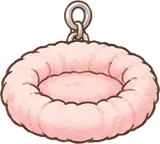
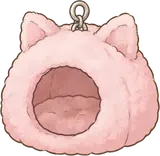
Kitten charm: replace cat bed image with cat-ear dome bed
Claude-Session: https://claude.ai/code/session_01LsuWBkhUDp3d2Zrt24Lv8i

diff --git a/js/series.js b/js/series.js
@@ -169,7 +169,7 @@ const SERIES_LIST = [
       { id: "n14", name: "立候補さん", w: 90, h: 160 },
       { id: "n15", name: "おすわり子猫", w: 98, h: 160, ring: 0.56 },
       { id: "n16", name: "ミルクの哺乳びん", w: 72, h: 160 },
-      { id: "n17", name: "ふかふかねこベッド", w: 160, h: 144 },
+      { id: "n17", name: "ふかふかねこベッド", w: 160, h: 156 },
       { id: "n18", name: "羽根つきねこじゃらし", w: 141, h: 160, ring: 0.55, tail: [0.55, 0.14] },
       { id: "n19", name: "カリカリごはん皿", w: 160, h: 142 },
       { id: "n20", name: "ピンクの毛糸玉", w: 124, h: 160, ring: 0.44, tail: [0.44, 0.82] },

diff --git a/js/app.js b/js/app.js
@@ -24,7 +24,7 @@ const KCAL_PER_FAT_G = 7.2;  // 体脂肪1gあたりのカロリー
 // 保存名はすべて「n-app-」で始める（同じサイト上のほかのアプリとまざらないように）
 const STORAGE_KEY = "n-app-data";
 const LEGACY_STORAGE_KEY = "n-undou-bin.v1"; // 前の保存名（自動で引っ越す）
-const APP_VERSION = "11/30-87"; // 更新するたびに変える（設定画面に表示）
+const APP_VERSION = "11/30-88"; // 更新するたびに変える（設定画面に表示）
 
 // ---------- データの読み書き ----------
 

diff --git a/sw.js b/sw.js
@@ -9,8 +9,8 @@
 // ★ プログラムを直したら CODE_VERSION を、今ある画像を描き直したら IMAGE_VERSION を、必ず1つ上げる。
 //   （新しい画像を足しただけなら IMAGE_VERSION はそのまま。足した分だけダウンロードされる）
 importScripts("js/bottles.js", "js/bigbottles.js", "js/series.js");
-const CODE_VERSION = 190;
-const IMAGE_VERSION = 14;
+const CODE_VERSION = 191;
+const IMAGE_VERSION = 15;
 const CODE_CACHE = `n-app-cache-v${CODE_VERSION}`;
 const IMAGE_CACHE = `n-app-images-v${IMAGE_VERSION}`;
 
